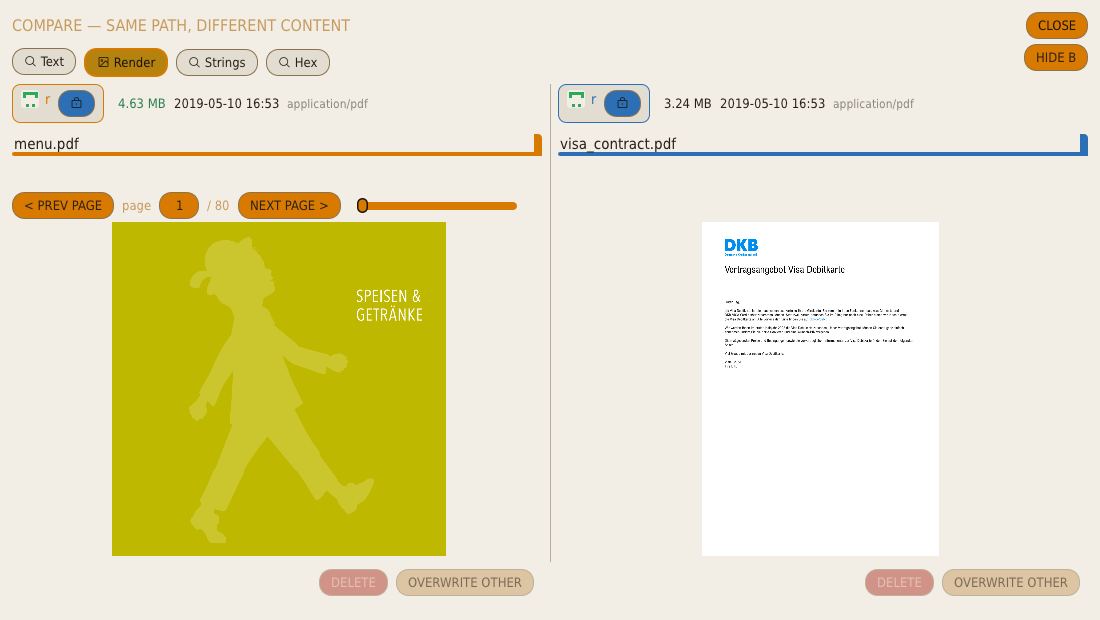
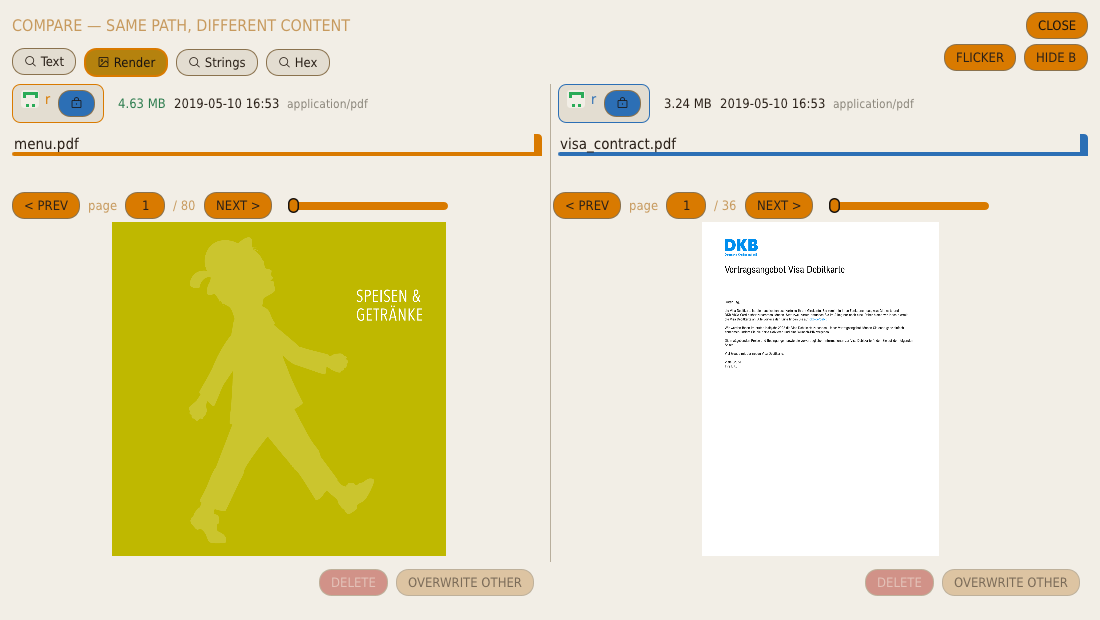
Document the finished document-lens remainders
Render tab docs and CHANGELOG now describe per-side page advancers,
flicker
on the lined-up pages, office/legacy (.doc, .rtf) rendering via
LibreOffice,
background text extraction, and the LibreOffice startup probe;
render.png
regenerated with the per-side controls. The document-lenses spec is
resolved
with nothing left open.

diff --git a/.scratch/document-lenses/spec.md b/.scratch/document-lenses/spec.md
@@ -1,6 +1,6 @@
 # Document comparison lenses — Text · Render · Strings · Hex
 
-Status: ready-for-agent
+Status: resolved
 
 Spec synthesized 2026-08-04 from two grilling sessions ("support for other file
 formats and text view", "about text rendering") plus the first implemented slice
@@ -34,8 +34,8 @@ a faithful lens and none of them a verdict:
   looks. Comparing two, they sit side by side, each side with its **own page
   advancer**, and **flicker** swaps the current pages so subtle differences jump
   out. Judged by eye: no automated pixel diff, no page-pairing guess, no sameness
-  verdict. **[partial]** (PDF first-page render, side by side, ships now; office
-  formats, multi-page navigation, and flicker are follow-ups.)
+  verdict. **[done]** (PDF directly; office and legacy formats via headless
+  LibreOffice; per-side advancers; flicker on the current pages.)
 - **Strings** — the **printable character runs** embedded in any file's bytes (the
   `strings`-style view the Browse tab already has), now available in the viewer
   too, and comparable. **[done]**
@@ -150,9 +150,10 @@ keep-versus-delete, and never declares two things "the same."** The removed
   ("Text"/"Hex"/"Image"/"Metadata"/"Strings") because the kittest label query
   panics on multiple matches. **[done]**
 - **Extraction runs on demand and is cached** by content hash in the viewer, so it
-  runs once per pairing, never per frame. The target is a **worker thread** (the UI
-  thread never blocks); the first slice runs it synchronously, matching the existing
-  text-preview, and threading is a follow-up. **[partial]**
+  runs once per pairing, never per frame. It runs on a **worker thread** (the UI
+  thread never blocks): one job per pairing extracts both sides *and* builds the
+  content diff, keyed by content-hash pair so a stale result is dropped; a short
+  wait note holds the pane meanwhile. **[done]**
 - **Office paragraph structure.** The office extractor currently joins runs with
   spaces, so a Word/Office file extracts as one long line and its content diff
   degenerates to a single wrapped row. Teaching the office text reader to emit a
@@ -167,17 +168,17 @@ keep-versus-delete, and never declares two things "the same."** The removed
   reused by the Browse preview and the new viewer Strings tab.)
 - **Render is rasterize-to-images, compared by eye.** A core function rasterizes a
   document to page images by shelling out — `pdftoppm` for PDF, headless LibreOffice
-  (`--convert-to pdf`) then rasterize for office formats — mirroring the existing
-  external-tool pattern (ffmpeg). Absent tools ⇒ no Render tab, no error. The tab
-  reuses the image compare surface (texture, zoom/pan, flicker) but adds an
+  (`--convert-to pdf`, isolated user profile, 60 s kill switch) then rasterize for
+  office formats — mirroring the existing external-tool pattern (ffmpeg). Absent
+  tools ⇒ no Render tab, no error — and the Status centre's startup probe names the
+  missing tool. The Render **format set is wider than Text's**: everything the
+  extractor reads *plus* legacy `.doc` and `.rtf`, because Render exists precisely
+  for what text extraction can't faithfully show. Conversions are cached per
+  content hash for the session; pages render lazily per (side, page) with
+  `pdftoppm -f N -l N`; each side's count comes from `pdfinfo` once. The tab has an
   **independent per-side page advancer**; flicker swaps the *current* A page against
   the *current* B page. The machine never pairs pages or diffs pixels; it states the
-  page counts and lets the user align and judge. **[partial]** — shipped:
-  `render::render_pdf_pages` (PDF via `pdftoppm`, tool-gated) and a `Render` tab for
-  `application/pdf` showing the **first page**, one file or two side by side,
-  synchronously (fast, no async needed). Deferred: office via headless LibreOffice
-  (needs the async channel, since it is multi-second), multi-page navigation with the
-  per-side page advancer, and flicker.
+  page counts and lets the user align and judge. **[done]**
 - **The tab split is last.** Splitting the dual-purpose Text tab into independent
   **Hex** (every file), **Strings** (every file), and **Text** (readable text: documents
   + plain text) tabs is done *after* Text/Strings/Render each have content, so the tab
@@ -247,5 +248,8 @@ codebase; prefer them, add functions at them rather than new seam types:
   (Browse now reuses it), and the viewer **Strings** tab (single-file runs and a two-file
   aligned diff), and the **Render** tab (PDF first page, one file or two side by side, via
   `pdftoppm`), and the Hex/Strings/Text **tab split** (Text = readable text only; Hex always).
-  Remaining: office rendering + multi-page navigation + flicker (needs headless LibreOffice and
-  the async channel), and worker-threaded extraction.
+  The final slice (2026-08-11) closed the remainders: worker-threaded extraction (one job per
+  pairing, diff built off-thread), per-side page advancers with lazy per-page rendering and
+  `pdfinfo` counts, flicker on the current pages, and office/legacy rendering via headless
+  LibreOffice with a session conversion cache and a Status-centre probe. Nothing remains open
+  in this effort.

diff --git a/docs/gui/duplicates.md b/docs/gui/duplicates.md
@@ -122,7 +122,8 @@ A file can be looked at in more than one way, so the viewer is tabbed by *repres
 The tab bar offers every representation at least one side has — **Image**, **Video**,
 **Audio**, **Metadata**, **Text**, **Render**, **Strings**, **Hex** — a photo has no Audio tab, an
 untagged FLAC no Metadata tab, **Text** only a file with readable words, and **Render** only a
-PDF; but **Strings** and **Hex** are offered for every file. Selecting a tab draws only the
+document that can be drawn as pages (a PDF, or an office/legacy file when LibreOffice is
+installed); but **Strings** and **Hex** are offered for every file. Selecting a tab draws only the
 column(s) whose file supports it, always
 left (A) against right (B), never stacked. If a side steps to a copy that lacks the current
 representation, the viewer drops back to the pair's own representation.
@@ -179,7 +180,9 @@ file, its text as written. One file shows its content; comparing two, their cont
 other; a line only one side has leaves the other blank (**green**); a line that changed shows
 both versions with the differing characters marked (**amber**). Nothing is declared "the same" —
 identical content simply shows no marks. A document that yields no text (scanned, encrypted, or
-empty) says so plainly. Raw bytes are not here — they have their own **Hex** tab.
+empty) says so plainly. Extraction runs in the background — a slow-to-parse PDF shows a short
+note for a moment instead of freezing the app. Raw bytes are not here — they have their own
+**Hex** tab.
 
 ![The Text tab comparing two documents' extracted content](../screenshots/content_diff.png)
 
@@ -188,15 +191,22 @@ pretending to be blank:
 
 ![A readable file beside a document with nothing to extract](../screenshots/lightbox_text.png)
 
-**Render** shows a **PDF** rasterized page by page — the document as it actually *looks*, not
-its extracted words. One shared page control (**prev/next**, an editable page number, and a
-slider for sweeping a long document) drives **both** sides, so page N sits beside page N and a
-duplicate-PDF walk stays aligned; a side past its own last page says so. Pages render in the
-background, so even a huge book never freezes the app. Comparing two, their pages sit side by
-side to be judged by eye: there is no automated pixel diff and no "same" verdict, because
-different rendering (fonts, antialiasing) makes pixel equality meaningless. It's the visual counterpart to the Text tab's content diff —
-one reads the words, the other shows the page. Requires `pdftoppm` (poppler) at runtime; without
-it the tab simply doesn't appear, the same way video needs `ffmpeg`.
+**Render** shows a **document** rasterized page by page — as it actually *looks*, not its
+extracted words. A PDF renders directly; a Word, spreadsheet, presentation or OpenDocument
+file — and the legacy formats the Text tab can't read, **`.doc` and `.rtf`** — is first
+converted in the background (the first view takes a moment; after that the conversion is
+reused for the whole session). Comparing two, **each side has its own page control**
+(**prev/next**, an editable page number beside that side's own page count, and a slider for
+sweeping a long document), so when one copy has an extra front page you line the two up
+yourself — the tool states the counts and never guesses which page maps to which. Pages
+render in the background, so even a huge book never freezes the app. The lined-up pages are
+judged by eye: **FLICKER** (or `space`) swaps the current A page and current B page in place,
+making a shifted paragraph or a changed figure jump out; there is no automated pixel diff and
+no "same" verdict, because different rendering (fonts, antialiasing) makes pixel equality
+meaningless. It's the visual counterpart to the Text tab's content diff — one reads the
+words, the other shows the page. Requires `pdftoppm` (poppler) at runtime, and LibreOffice
+(`soffice`) for the non-PDF formats; without a tool the affected tab simply doesn't appear,
+the same way video needs `ffmpeg`.
 
 ![Two PDFs rendered to pages, side by side on the Render tab](../screenshots/render.png)
 

diff --git a/CHANGELOG.md b/CHANGELOG.md
@@ -17,7 +17,8 @@ All notable changes to the `dedup-rs` project will be documented in this file.
 - **A Status centre, so the app never fails silently.** A top-right **STATUS** button (with an
   amber unread badge) opens a health/activity panel. At launch it probes the things that break
   quietly — the **audio output device** (so "no sound and no error" is now a visible warning),
-  **ffmpeg/ffprobe**, and **pdftoppm** — and files a **Warning** for anything missing. A
+  **ffmpeg/ffprobe**, **pdftoppm**, and **LibreOffice** — and files a **Warning** for anything
+  missing. A
   repository whose folder has gone (a disconnected drive, a closed cloud mount) files one
   **Critical** that clears when it returns. Every warning says **since when** it has been true
   (first seen, kept across repeats — "offline since Tuesday" stays Tuesday), and each can be
@@ -111,13 +112,21 @@ All notable changes to the `dedup-rs` project will be documented in this file.
   characters differ — so you can see whether two copies say the same thing. Nothing is declared
   identical; a document with no extractable text (scanned, encrypted, or empty) says so.
   Word/Office documents keep their paragraph breaks, so their content diffs line by line.
-- **See a PDF as it looks, side by side — page by page.** A **Render** tab rasterizes a PDF's
-  pages on demand and shows them — the document's appearance, not its extracted words. One
-  shared page control (prev/next, an editable page number, and a slider for sweeping) drives
-  **both** sides, so page N sits beside page N and a duplicate-PDF walk stays aligned; a side
-  past its own end says so. Pages render in the background — a huge book never freezes the
-  app — and recent pages are kept so stepping back is instant. Needs `pdftoppm` (poppler) at
-  runtime; absent it, the tab just doesn't appear.
+  Extraction runs in the background — a slow-to-parse PDF shows a short note for a moment
+  instead of freezing the window.
+- **See a document as it looks, side by side — page by page.** A **Render** tab rasterizes a
+  document's pages on demand and shows them — its appearance, not its extracted words. A PDF
+  renders directly; Word, spreadsheets, presentations, OpenDocument — and the legacy formats
+  the Text tab can't read, **`.doc` and `.rtf`** — convert in the background via headless
+  LibreOffice first (once per session per document). **Each side has its own page control**
+  (prev/next, an editable page number beside that side's own page count, and a slider for
+  sweeping), so an extra front page on one copy is lined up by hand — the counts are stated,
+  and the tool never guesses which page maps to which. **FLICKER** (or `space`) swaps the two
+  lined-up pages in place, so a shifted paragraph or changed figure jumps out. Pages render in
+  the background — a huge book never freezes the app — and recent pages are kept so stepping
+  back is instant. Needs `pdftoppm` (poppler) at runtime, plus LibreOffice for the non-PDF
+  formats; absent a tool, the affected tab just doesn't appear (and the Status centre says
+  why).
 - **Separate Text and Hex tabs.** The viewer's **Text** tab shows *readable* content
   only — a document's extracted words or a plain-text file's text (two text files diff as
   content, aligned, not as bytes) — while the **Hex** tab shows the raw bytes of *every* file

diff --git a/docs/gui/index.md b/docs/gui/index.md
@@ -39,7 +39,8 @@ so a problem never fails silently. It has two sections:
 - **Warnings** — health issues, each **Critical** (red) or **Warning** (amber), never
   a mere log line. At launch the app probes the things that fail quietly: the **audio
   output device** (so "no sound, no error" becomes a visible warning), **ffmpeg/ffprobe**
-  (video frames, soundtrack extraction, play-rates), and **pdftoppm** (the Render tab).
+  (video frames, soundtrack extraction, play-rates), **pdftoppm** (the Render tab), and
+  **LibreOffice** (rendering office and legacy documents as pages).
   At runtime, a repository whose folder has gone (a disconnected drive, a closed cloud
   mount) files one aggregated Critical that clears when it returns. Every warning says
   **since when** it has been true (first seen — a repeat doesn't reset it), and each can be
@@ -153,8 +154,10 @@ is needed for it.
 | Plain text | any `text/*` — `.txt`, `.md`, `.csv`, `.html`, `.json`, source code, logs |
 
 Legacy binary `.doc` (Word 97–2003) is **not** among them — only the modern OOXML/OpenDocument
-containers are. Everything else (images, audio, video, archives, unknown binaries) is compared
-by its own means — a perceptual fingerprint, or its raw bytes — never as text.
+containers are. A `.doc` or `.rtf` can still be *looked at* as rendered pages in the viewer's
+Render tab (via LibreOffice) — it just can't be read as text. Everything else (images, audio,
+video, archives, unknown binaries) is compared by its own means — a perceptual fingerprint, or
+its raw bytes — never as text.
 
 ## What's not here
 
